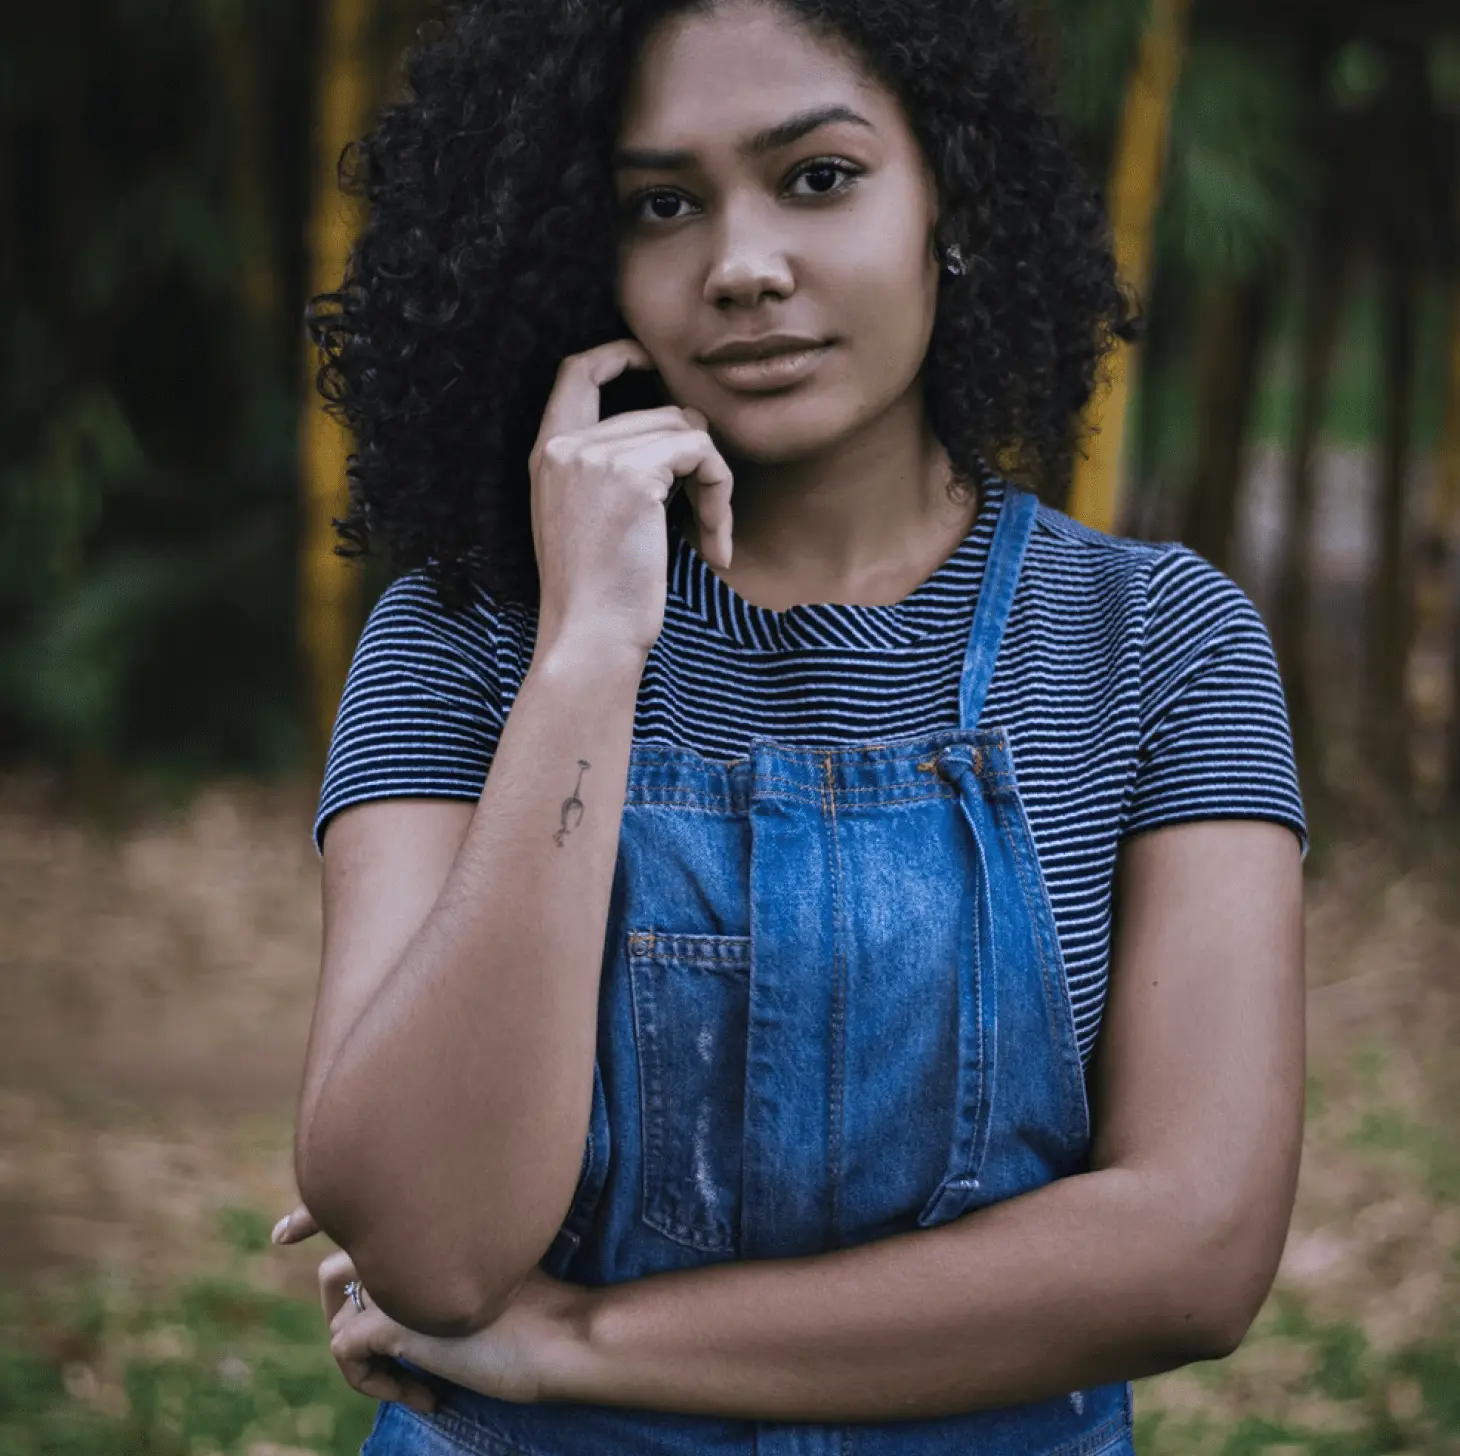
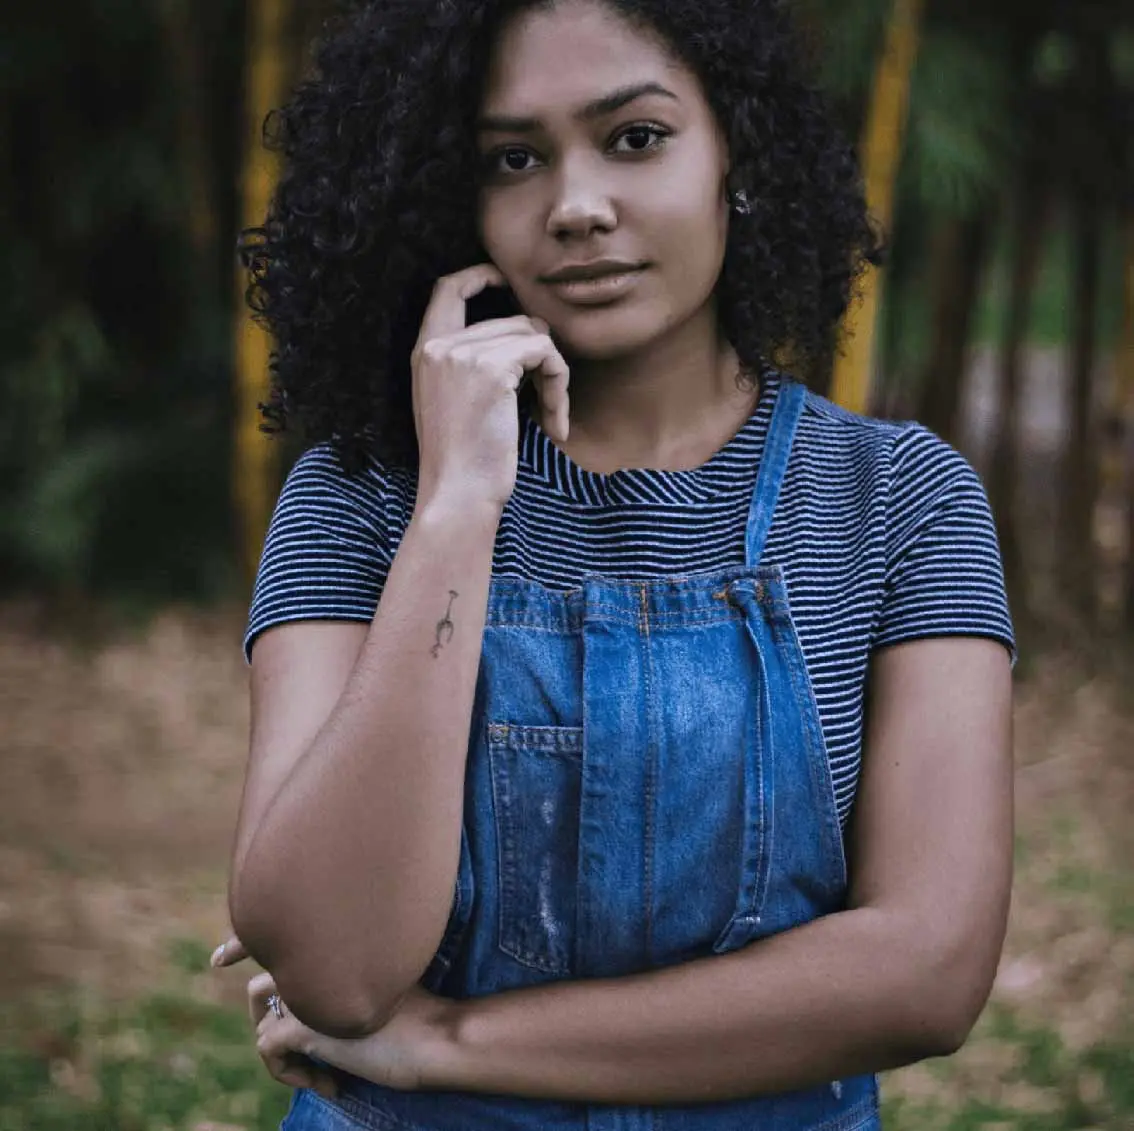
resize & reduce img again + supp img en trop

diff --git a/assets/style.min.css b/assets/style.min.css
@@ -1,1 +1,1 @@
-body {max-width: 1920px;margin: auto;}* {font-family: 'Inter';font-style: normal;}.top-header {background-color: white;position: sticky;top:0;z-index: 1000;display: flex;justify-content: space-between;padding-inline: 100px;padding-block: 30px;align-items: center;}.top-header .name {font-size: 26px;}.nav ul {display: flex;list-style-type: none;font-size: 14px;margin-bottom: 0;}.nav li {padding-inline: 10px;}.nav a {text-decoration: none;color: #000 }.social-link img {width: 20px;}#about {display: flex;background-color: #F6D2B8;padding-inline: 100px;padding-block: 100px;position: relative;}.picture.left::before {content: ' ';background-color: #E5975F;width: 374px;height: 329px;position: absolute;bottom: 0;left: 0;z-index: -1;}.picture {flex: 1;margin: 0 20px;z-index: 0;}.picture img {width: 100%;}#about-me {flex: 2 }.about-me__title {margin-top: 1em;margin-bottom: 60px;font-size: 30px;}.about-me__introduction {font-family: 'Spectral';font-weight: 800;font-style: italic;width: 60%;}#about-me p {width: 80%;font-size: 15px;}.title{text-align: center;padding-block: 2em;}.gallery .nav {justify-content: center;}.nav-pills .nav-link.active, .nav-pills .show > .nav-link {color: #fff;background-color: #4c2611;border-radius:0 ;}.nav-pills .nav-link {color: #000 }.item-column {position: relative;margin-bottom: 0 !important;padding: 0;}.item-column::after{content: "";display: block;padding-bottom: 100%;}.gallery-item {position: absolute;width: 100%;height: 100%;object-fit: cover;padding: .5em;}.mg-prev, .mg-next {width: 30px;height: 30px;border-radius: 00%;justify-content: center;align-items: center;display: flex;font-size: 24px;}.quote {font-family: 'Spectral';font-style: italic;width: 70%;margin: auto;padding-block: 3em;}.quote__text {font-family: Spectral;font-style: italic;font-weight: 300;}.quote__author {font-family: Spectral;font-weight: 800;font-size: 22px;}#services {margin: auto;background-color: #A8D5D8 ;position: relative;}#services .container::before{content: ' ';background-color: #1C6474;position: absolute;width: 100%;height: 30%;bottom: 0;left: 0;z-index: 0;}#services .container {justify-content: space-between;display: flex;padding : 2em 0;}.service {background-color: white;max-width: 390px;width: 30%;height: 337px;padding: 1em;display: flex;flex-direction: column;justify-content: space-between;z-index: 1;}#contact {margin: auto;background-color: #D8D3A8 ;position: relative;padding-inline: 100px;padding-block: 100px;}#contact .container {display: flex;}.picture.right::before {content: ' ';background-color: #BEB45A;width: 374px;height: 329px;position: absolute;bottom: 0;right: 0;z-index: -1;}.form-container {flex : 2;}form {display: flex;flex-direction: column;width: 70%;align-items: flex-start;}form input {width: 100%;background-color: transparent;border: solid 1px;height: 2.5em;margin-bottom: 20px;}form textarea {width: 100%;background-color: transparent;border: solid 1px;height: 5em;line-height: 2.5em;font-size: 1.2em;margin-bottom: 20px;}input[type="submit"] {background-color: #BEB45A;padding: .5em 1em }@media all and (max-width: 1180px) {.picture {flex : 2;}#about, #contact .container {align-items: center;}.about-me__title {margin-top: 0;margin-bottom: 1em;}#about-me h6, #about-me p {width: 100%;}}@media all and (max-width: 1000px) {#about{flex-direction: column;}.picture {width: 50%;}.picture.left::before {width: 100%;height: 30%;position: absolute;bottom: auto;top: 0;left: 0;z-index: -1;}.about-me__title{text-align: center;margin-top: 1em;}#services .container {flex-direction: column;}.service {width: 100%;max-width: 100%;height: auto;margin: 2em 0 }.service__description{margin-bottom: 1em;}#services .container::before{width: 30%;height: 100%;bottom: 0;right: 0;left: auto;z-index: 0;}#contact .container {flex-direction: column;}#contact .picture.right {margin-top: 1em;}.picture.right::before {width: 100%;height: 30%;position: absolute;bottom: 0;right: 0;z-index: -1;}}@media all and (max-width: 650px) {.top-header {flex-direction: column;padding-inline: 0;}.top-header .nav, .top-header .nav ul {width: 100%;padding: 0 0 0 0;}.top-header .nav li {flex: 1;padding-block: 1em;text-align: center;}.picture.left::before, .picture.right::before {height: 150px;}#services .container {align-items: center;}.service {max-width: 90%;}#about, #contact {padding-inline: 2em;padding-block: 2em;}form {width: 100%;}.picture {width: 80%;}}
+body {max-width: 1920px;margin: auto;}* {font-family: 'Inter';font-style: normal;}.top-header {background-color: white;position: sticky;top:0;z-index: 1000;display: flex;justify-content: space-between;padding-inline: 100px;padding-block: 30px;align-items: center;}.top-header .name {font-size: 26px;}.nav ul {display: flex;list-style-type: none;font-size: 14px;margin-bottom: 0;}.nav li {padding-inline: 10px;}.nav a {text-decoration: none;color: #000 }.social-link img {width: 20px;}#about {display: flex;background-color: #F6D2B8;padding-inline: 100px;padding-block: 100px;position: relative;}.picture.left::before {content: ' ';background-color: #E5975F;width: 374px;height: 329px;position: absolute;bottom: 0;left: 0;z-index: -1;}.picture {flex: 1;margin: 0 20px;z-index: 0;}.picture img {width: 100%;}#about-me {flex: 2 }.about-me__title {margin-top: 1em;margin-bottom: 60px;font-size: 30px;}.about-me__introduction {font-family: 'Spectral';font-weight: 800;font-style: italic;width: 60%;}#about-me p {width: 80%;font-size: 15px;}.title{text-align: center;padding-block: 2em;}.gallery .nav {justify-content: center;}.nav-pills .nav-link.active, .nav-pills .show > .nav-link {color: #fff;background-color: #4c2611;border-radius:0 ;}.nav-pills .nav-link {color: #000 }.item-column {position: relative;margin-bottom: 0 !important;padding: 0;}.item-column::after{content: "";display: block;padding-bottom: 100%;}.gallery-item {position: absolute;width: 100%;height: 100%;object-fit: cover;padding: .5em;}.quote {font-family: 'Spectral';font-style: italic;width: 70%;margin: auto;padding-block: 3em;}.quote__text {font-family: Spectral;font-style: italic;font-weight: 300;}.quote__author {font-family: Spectral;font-weight: 800;font-size: 22px;}#services {margin: auto;background-color: #A8D5D8 ;position: relative;}#services .container::before{content: ' ';background-color: #1C6474;position: absolute;width: 100%;height: 30%;bottom: 0;left: 0;z-index: 0;}#services .container {justify-content: space-between;display: flex;padding : 2em 0;}.service {background-color: white;max-width: 390px;width: 30%;height: 337px;padding: 1em;display: flex;flex-direction: column;justify-content: space-between;z-index: 1;}#contact {margin: auto;background-color: #D8D3A8 ;position: relative;padding-inline: 100px;padding-block: 100px;}#contact .container {display: flex;}.picture.right::before {content: ' ';background-color: #BEB45A;width: 374px;height: 329px;position: absolute;bottom: 0;right: 0;z-index: -1;}.form-container {flex : 2;}form {display: flex;flex-direction: column;width: 70%;align-items: flex-start;}form input {width: 100%;background-color: transparent;border: solid 1px;height: 2.5em;margin-bottom: 20px;}form textarea {width: 100%;background-color: transparent;border: solid 1px;height: 5em;line-height: 2.5em;font-size: 1.2em;margin-bottom: 20px;}input[type="submit"] {background-color: #BEB45A;padding: .5em 1em }

diff --git a/assets/style.css b/assets/style.css
@@ -123,15 +123,6 @@ body {
 	object-fit: cover;
 	padding: .5em;
 }
-.mg-prev, .mg-next {
-	width: 30px;
-	height: 30px;
-	border-radius: 00%;
-	justify-content: center;
-	align-items: center;
-	display: flex;
-	font-size: 24px;
-}
 
 .quote {
 	font-family: 'Spectral';
@@ -241,114 +232,3 @@ input[type="submit"] {
 	background-color: #BEB45A;
 	padding: .5em 1em
 }
-
-@media all and (max-width: 1180px) {
-	.picture {
-		flex : 2;
-	}
-	#about, #contact .container {
-		align-items: center;
-	}
-	.about-me__title {
-		margin-top: 0;
-		margin-bottom: 1em;
-	}
-	#about-me h6, #about-me p {
-		width: 100%;
-	}
-}
-
-@media all and (max-width: 1000px) {
-	#about{
-		flex-direction: column;
-
-	}
-	.picture {
-		width: 50%;
-	}
-	.picture.left::before {
-		width: 100%;
-		height: 30%;
-		position: absolute;
-		bottom: auto;
-		top: 0;
-		left: 0;
-		z-index: -1;
-	}
-	.about-me__title{
-		text-align: center;
-		margin-top: 1em;
-	}
-	#services .container {
-		flex-direction: column;
-	}
-	.service {
-		width: 100%;
-		max-width: 100%;
-		height: auto;
-		margin: 2em 0
-	}
-	.service__description{
-		margin-bottom: 1em;
-	}
-
-	#services .container::before{
-		width: 30%;
-		height: 100%;
-		bottom: 0;
-		right: 0;
-		left: auto;
-		z-index: 0;
-	}
-
-	#contact .container {
-		flex-direction: column;
-	}
-	#contact .picture.right {
-		margin-top: 1em;
-	}
-	.picture.right::before {
-		width: 100%;
-		height: 30%;
-		position: absolute;
-		bottom: 0;
-		right: 0;
-		z-index: -1;
-	}
-}
-
-@media all and (max-width: 650px) {
-	.top-header {
-		flex-direction: column;
-		padding-inline: 0;
-	}
-	.top-header .nav, .top-header .nav ul {
-		width: 100%;
-		padding: 0 0 0 0;
-	}
-	.top-header .nav li {
-		flex: 1;
-		padding-block: 1em;
-		text-align: center;
-	}
-	.picture.left::before, .picture.right::before {
-		height: 150px;
-	}
-	#services .container {
-		align-items: center;
-	}
-	.service {
-		max-width: 90%;
-	}
-	#about, #contact {
-		padding-inline: 2em;
-		padding-block: 2em;
-	}
-	form {
-		width: 100%;
-	}
-	.picture {
-		width: 80%;
-	}
-}
-
